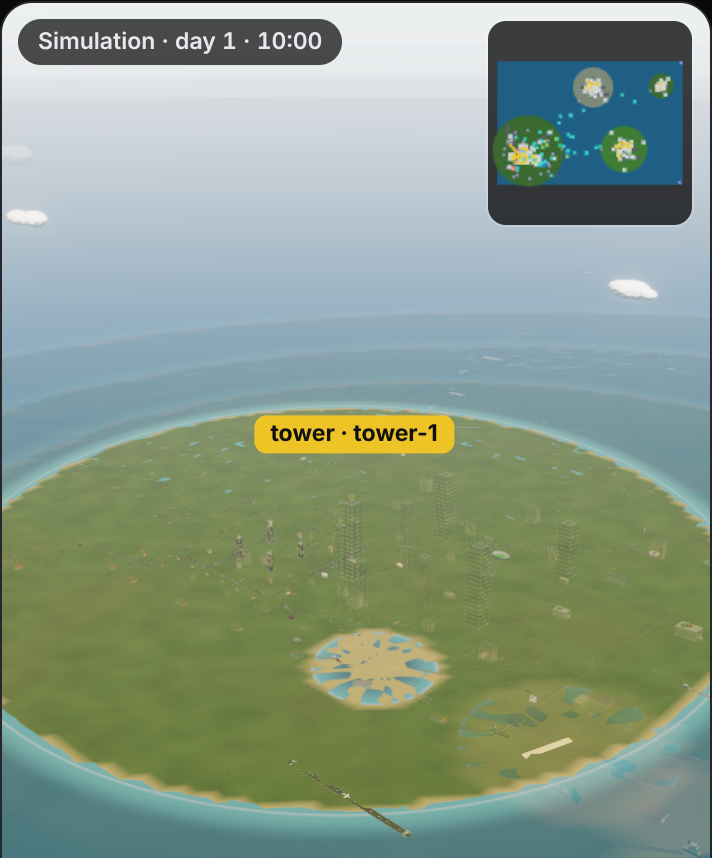
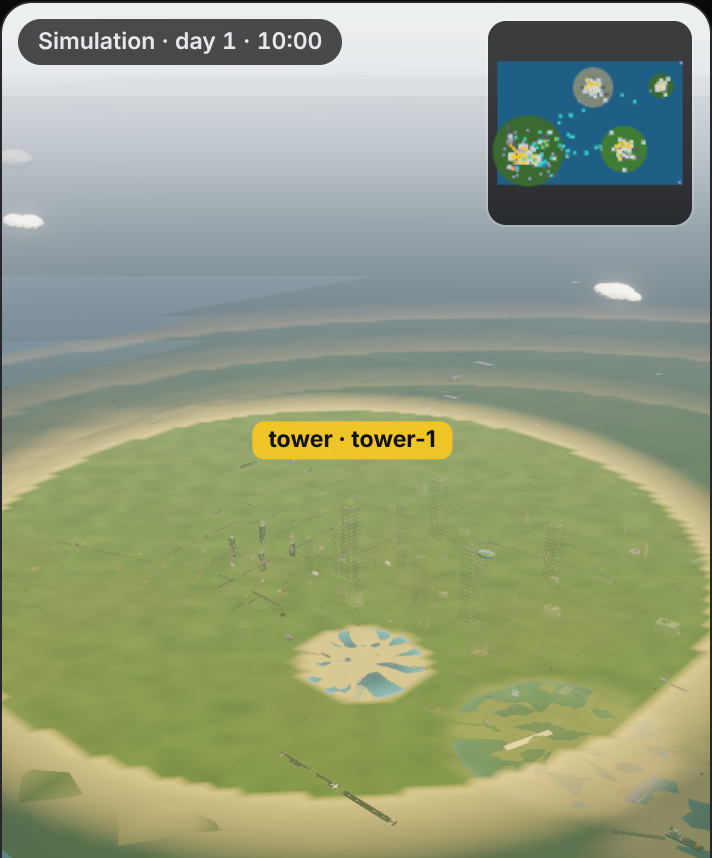
Sandbox viewer: generated CC0 PBR textures, terrain splatting, surface detail; sea depth fix
- scripts/make-sandbox-textures.mjs: five tileable PBR materials
  (albedo + normal/roughness), deterministic, CC0
- materials.js: terrain blends grass, sand, rock and snow by per-vertex
  weights; triplanar plaster detail on buildings and vehicles
- The sea is pushed back in depth so coasts never z-fight from afar
- The tier test copes with slow software rendering
- The plan marks what is in and what is left, with known issues

Claude-Session: https://claude.ai/code/session_018jFJG475oNjjyMRDJy1kw5

diff --git a/public/sandbox/materials.js b/public/sandbox/materials.js
@@ -1,0 +1,134 @@
+// PG1 Sandbox viewer: PBR detail from the CC0 textures in
+// /sandbox/textures/ (scripts/make-sandbox-textures.mjs), Medium tier and up.
+//
+//   loadTextures(THREE)                   the five materials' maps, or null
+//   applyTerrain(material, tex)           the ground: grass, sand, rock and
+//                                          snow blended by a per-vertex
+//                                          `splat` weight (environment.js),
+//                                          each with its own normal and
+//                                          roughness, over the climate
+//                                          colours already in the vertices
+//   addSurfaceDetail(material, tex)       buildings and vehicles: plaster
+//                                          detail projected on three axes
+//                                          (no texture coordinates needed)
+//
+// The textures change brightness, bumps and roughness around their own
+// average, so the colours of the world stay as they are. Detail fades with
+// distance, where it would only shimmer. Both hooks chain onto any
+// onBeforeCompile already set, so set up cascaded shadows first (their
+// setupMaterial replaces it).
+
+const NAMES = ['grass', 'sand', 'rock', 'snow', 'plaster'];
+
+export async function loadTextures(THREE, base = '/sandbox/textures/') {
+  const loader = new THREE.TextureLoader();
+  const load = (url, srgb) => new Promise((resolve, reject) => loader.load(url, (t) => {
+    t.wrapS = t.wrapT = THREE.RepeatWrapping;
+    t.anisotropy = 8;
+    t.colorSpace = srgb ? THREE.SRGBColorSpace : THREE.NoColorSpace;
+    t.generateMipmaps = true;
+    t.minFilter = THREE.LinearMipmapLinearFilter;
+    resolve(t);
+  }, undefined, reject));
+  try {
+    const out = {};
+    await Promise.all(NAMES.map(async (n) => { out[n] = { albedo: await load(`${base}${n}_albedo.png`, true), nr: await load(`${base}${n}_nr.png`, false) }; }));
+    return out;
+  } catch (e) { return null; }
+}
+
+function chain(material, fn, key) {
+  const prev = material.onBeforeCompile;
+  material.onBeforeCompile = (shader, renderer) => { if (prev) prev.call(material, shader, renderer); fn(shader); };
+  const prevKey = material.customProgramCacheKey ? material.customProgramCacheKey.bind(material) : () => '';
+  material.customProgramCacheKey = () => `${prevKey()}|${key}`;
+  material.needsUpdate = true;
+  return material;
+}
+
+const VARYINGS = `
+varying vec3 vPgWorld;
+varying vec3 vPgWorldNormal;`;
+
+function withWorld(shader, extraVert = '') {
+  shader.vertexShader = shader.vertexShader
+    .replace('#include <common>', `#include <common>${VARYINGS}${extraVert}`)
+    .replace('#include <worldpos_vertex>', `#include <worldpos_vertex>
+      vec4 pgWp = vec4(transformed, 1.0);
+      #ifdef USE_INSTANCING
+        pgWp = instanceMatrix * pgWp;
+      #endif
+      pgWp = modelMatrix * pgWp;
+      vPgWorld = pgWp.xyz;
+      vPgWorldNormal = normalize(mat3(modelMatrix) * objectNormal);`);
+}
+
+// The ground (a MeshStandardMaterial with vertex colours).
+export function applyTerrain(m, tex) {
+  if (!tex || !m || m.userData.pgTerrain) return m;
+  m.userData.pgTerrain = true;
+  const u = {
+    pgA0: { value: tex.grass.albedo }, pgN0: { value: tex.grass.nr },
+    pgA1: { value: tex.sand.albedo }, pgN1: { value: tex.sand.nr },
+    pgA2: { value: tex.rock.albedo }, pgN2: { value: tex.rock.nr },
+    pgA3: { value: tex.snow.albedo }, pgN3: { value: tex.snow.nr }
+  };
+  return chain(m, (shader) => {
+    Object.assign(shader.uniforms, u);
+    withWorld(shader, '\nattribute vec4 splat;\nvarying vec4 vPgSplat;');
+    shader.vertexShader = shader.vertexShader.replace('#include <worldpos_vertex>', '#include <worldpos_vertex>\n      vPgSplat = splat;');
+    shader.fragmentShader = shader.fragmentShader
+      .replace('#include <common>', `#include <common>${VARYINGS}
+varying vec4 vPgSplat;
+uniform sampler2D pgA0; uniform sampler2D pgN0; uniform sampler2D pgA1; uniform sampler2D pgN1;
+uniform sampler2D pgA2; uniform sampler2D pgN2; uniform sampler2D pgA3; uniform sampler2D pgN3;
+float pgLum(vec3 c) { return dot(c, vec3(0.299, 0.587, 0.114)); }
+// One layer: brightness around its own average (the smallest mip), the bumps, the roughness.
+void pgLayer(sampler2D a, sampler2D nr, vec2 uv, float w, inout float lum, inout vec2 bump, inout float rough) {
+  if (w <= 0.001) return;
+  float l = pgLum(texture2D(a, uv).rgb) / max(0.05, pgLum(textureLod(a, uv, 12.0).rgb));
+  vec3 t = texture2D(nr, uv).rgb;
+  lum += l * w; bump += (t.xy * 2.0 - 1.0) * w; rough += t.z * w;
+}`)
+      .replace('#include <map_fragment>', `#include <map_fragment>
+  vec4 pgW = vPgSplat / max(0.001, vPgSplat.x + vPgSplat.y + vPgSplat.z + vPgSplat.w);
+  float pgDist = distance(cameraPosition, vPgWorld);
+  float pgFade = 1.0 - smoothstep(250.0, 2600.0, pgDist);
+  float pgL = 0.0; vec2 pgBump = vec2(0.0); float pgRough = 0.0;
+  pgLayer(pgA0, pgN0, vPgWorld.xz / 4.0, pgW.x, pgL, pgBump, pgRough);
+  pgLayer(pgA1, pgN1, vPgWorld.xz / 6.0, pgW.y, pgL, pgBump, pgRough);
+  pgLayer(pgA2, pgN2, vPgWorld.xz / 11.0, pgW.z, pgL, pgBump, pgRough);
+  pgLayer(pgA3, pgN3, vPgWorld.xz / 8.0, pgW.w, pgL, pgBump, pgRough);
+  diffuseColor.rgb *= mix(1.0, pgL, 0.85 * pgFade);`)
+      .replace('#include <roughnessmap_fragment>', `float roughnessFactor = mix(0.95, pgRough, pgFade);`)
+      .replace('#include <normal_fragment_maps>', `#include <normal_fragment_maps>
+  normal = normalize(normal + (viewMatrix * vec4(pgBump.x, 0.0, pgBump.y, 0.0)).xyz * 0.9 * pgFade);`);
+  }, 'pg-terrain');
+}
+
+// Buildings and vehicles: plaster detail, projected along whichever axis faces most.
+export function addSurfaceDetail(material, tex, { strength = 0.5, scale = 2.5 } = {}) {
+  if (!tex || !material || material.userData.pgDetail) return material;
+  material.userData.pgDetail = true;
+  const u = { pgPa: { value: tex.plaster.albedo }, pgPn: { value: tex.plaster.nr } };
+  return chain(material, (shader) => {
+    Object.assign(shader.uniforms, u);
+    withWorld(shader);
+    shader.fragmentShader = shader.fragmentShader
+      .replace('#include <common>', `#include <common>${VARYINGS}
+uniform sampler2D pgPa; uniform sampler2D pgPn;`)
+      .replace('#include <map_fragment>', `#include <map_fragment>
+  vec3 pgB = pow(abs(normalize(vPgWorldNormal)), vec3(4.0)); pgB /= (pgB.x + pgB.y + pgB.z + 1e-4);
+  vec2 pgUx = vPgWorld.zy / ${scale.toFixed(2)}; vec2 pgUy = vPgWorld.xz / ${scale.toFixed(2)}; vec2 pgUz = vPgWorld.xy / ${scale.toFixed(2)};
+  float pgFade = 1.0 - smoothstep(60.0, 700.0, distance(cameraPosition, vPgWorld));
+  float pgMean = dot(textureLod(pgPa, vec2(0.5), 12.0).rgb, vec3(0.299, 0.587, 0.114));
+  float pgL = (dot(texture2D(pgPa, pgUx).rgb, vec3(0.299, 0.587, 0.114)) * pgB.x + dot(texture2D(pgPa, pgUy).rgb, vec3(0.299, 0.587, 0.114)) * pgB.y + dot(texture2D(pgPa, pgUz).rgb, vec3(0.299, 0.587, 0.114)) * pgB.z) / max(0.05, pgMean);
+  vec3 pgT = texture2D(pgPn, pgUx).rgb * pgB.x + texture2D(pgPn, pgUy).rgb * pgB.y + texture2D(pgPn, pgUz).rgb * pgB.z;
+  diffuseColor.rgb *= mix(1.0, pgL, ${strength.toFixed(2)} * pgFade);`)
+      .replace('#include <roughnessmap_fragment>', `#include <roughnessmap_fragment>
+  roughnessFactor = clamp(roughnessFactor * mix(1.0, 0.6 + pgT.z * 0.6, pgFade), 0.04, 1.0);`)
+      .replace('#include <normal_fragment_maps>', `#include <normal_fragment_maps>
+  vec2 pgD = (pgT.xy * 2.0 - 1.0) * 0.35 * pgFade;
+  normal = normalize(normal + (viewMatrix * vec4(pgD.x * (pgB.y + pgB.z), pgD.y * (pgB.x + pgB.z), pgD.x * pgB.x + pgD.y * pgB.y, 0.0)).xyz);`);
+  }, `pg-detail-${strength}-${scale}`);
+}

diff --git a/public/sandbox/environment.js b/public/sandbox/environment.js
@@ -15,6 +15,7 @@
 
 import { Kit } from './kit.js';
 import { createWaterMaterial } from './water.js';
+import { applyTerrain } from './materials.js';
 
 const SKY_VERT = `
 varying vec3 vDir;
@@ -221,6 +222,15 @@ export function createEnvironment(THREE, scene, { coarse = false, quality = null
       return y;
     };
     env.heightAt = heightAt;
+    // Splat weights for the textured ground: grass, sand, rock, snow.
+    const splatOf = (x, z, y, edge, cl, snowAmt) => {
+      let ws = 0; let wr = smooth(500, 750, y); let wn = Math.max(smooth(800, 950, y), snowAmt);
+      if (edge !== null && edge < 45) { if (cl === 'cold') { wr = Math.max(wr, 0.6); ws = 0.4; } else ws = 1; wn = 0; }
+      for (const l of lakes) { const d = Math.hypot(x - l.sx, z - l.sz) - l.radius; if (d < 25) ws = Math.max(ws, smooth(25, 2, d)); }
+      ws = Math.min(1, ws); wr = Math.min(1 - ws, wr); wn = Math.min(1 - ws - wr, wn);
+      return [Math.max(0, 1 - ws - wr - wn), ws, wr, wn];
+    };
+    const splats = [];
     const ringR = (i) => (i === 0 ? 0 : half * 0.02 * Math.pow(R / (half * 0.02), i / rings));
     for (let i = 0; i <= rings; i++) {
       const rr = ringR(i);
@@ -239,11 +249,13 @@ export function createEnvironment(THREE, scene, { coarse = false, quality = null
         if (y > 800) c.lerp(snow, smooth(800, 950, y));
         const seaMix = islands.length ? 0 : smooth(span * 2.2, span * 3.4, out);
         if (seaMix > 0) c.lerp(sea, seaMix);
+        let sEdge = null; let sCl = 'temperate'; let sSnow = 0;
         if (islands.length) {
           const { edge, isl } = landEdge(x, z);
           const cl = isl ? isl.climate : 'temperate';
+          sEdge = edge; sCl = cl;
           if (cl === 'tropical') c.lerp(tropical, 0.55);
-          if (cl === 'cold') { c.lerp(coldGrass, 0.6); if (noise(x / 90, z / 90, 2) > 0.15) c.lerp(snow, 0.7); }
+          if (cl === 'cold') { c.lerp(coldGrass, 0.6); if (noise(x / 90, z / 90, 2) > 0.15) { c.lerp(snow, 0.7); sSnow = 0.7; } }
           if (cl === 'maritime') c.lerp(maritime, 0.5);
           if (edge < 45) c.copy(sand).lerp(cl === 'cold' ? pebbles : sand, 0.6);
           if (edge < -2) c.copy(seabed).lerp(deep, Math.min(1, -edge / 400));
@@ -254,6 +266,7 @@ export function createEnvironment(THREE, scene, { coarse = false, quality = null
           if (d < 25) c.lerp(sand, smooth(25, 2, d));
         }
         colr.push(c.r, c.g, c.b);
+        splats.push(...splatOf(x, z, y, sEdge, sCl, sSnow));
       }
     }
     for (let j = 0; j < segs; j++) idx.push(0, 1 + ((j + 1) % segs), 1 + j);
@@ -268,9 +281,13 @@ export function createEnvironment(THREE, scene, { coarse = false, quality = null
     g.setAttribute('position', new THREE.Float32BufferAttribute(pos, 3));
     g.setAttribute('color', new THREE.Float32BufferAttribute(colr, 3));
     g.setAttribute('uv', new THREE.Float32BufferAttribute(uvs, 2));
+    g.setAttribute('splat', new THREE.Float32BufferAttribute(splats, 4));
     g.setIndex(idx);
     g.computeVertexNormals();
-    const groundMat = env.setupMaterial(env.makeGroundMaterial ? env.makeGroundMaterial(detail) : new THREE.MeshStandardMaterial({ vertexColors: true, map: detail, roughness: 0.95, metalness: 0 }));
+    // With the PBR textures (Medium and up) the ground blends grass, sand,
+    // rock and snow by the splat weights below; without them, the old detail tile.
+    const groundMat = env.setupMaterial(new THREE.MeshStandardMaterial(env.textures ? { vertexColors: true, roughness: 1, metalness: 0 } : { vertexColors: true, map: detail, roughness: 0.95, metalness: 0 }));
+    if (env.textures) applyTerrain(groundMat, env.textures);
     const ground = new THREE.Mesh(g, groundMat);
     ground.receiveShadow = true;
     ground.position.y = isl0 ? -3 : -0.05;
@@ -283,7 +300,7 @@ export function createEnvironment(THREE, scene, { coarse = false, quality = null
       const nx = Math.min(coarse ? 220 : 380, Math.ceil((W + 2 * M) / 40)); const nz = Math.min(coarse ? 150 : 260, Math.ceil((D + 2 * M) / 40));
       const pg = new THREE.PlaneGeometry(W + 2 * M, D + 2 * M, nx, nz);
       pg.rotateX(-Math.PI / 2);
-      const pp = pg.attributes.position; const cols = new Float32Array(pp.count * 3); const uv2 = pg.attributes.uv;
+      const pp = pg.attributes.position; const cols = new Float32Array(pp.count * 3); const uv2 = pg.attributes.uv; const spl = new Float32Array(pp.count * 4);
       const tmpC = new THREE.Color();
       for (let i = 0; i < pp.count; i++) {
         const x = pp.getX(i); const z = pp.getZ(i);
@@ -294,14 +311,17 @@ export function createEnvironment(THREE, scene, { coarse = false, quality = null
         tmpC.copy(grassA).lerp(grassB, Math.min(1, Math.max(0, v + 0.5))).lerp(dry, Math.max(0, noise(x / 700, z / 700, 2)) * 0.6);
         const cl = isl ? isl.climate : 'temperate';
         if (cl === 'tropical') tmpC.lerp(tropical, 0.55);
-        if (cl === 'cold') { tmpC.lerp(coldGrass, 0.6); const n2 = noise(x / 140, z / 140, 3); if (n2 > 0.08) tmpC.lerp(snow, Math.min(0.85, (n2 - 0.08) * 5)); }
+        let sSnow = 0;
+        if (cl === 'cold') { tmpC.lerp(coldGrass, 0.6); const n2 = noise(x / 140, z / 140, 3); if (n2 > 0.08) { sSnow = Math.min(0.85, (n2 - 0.08) * 5); tmpC.lerp(snow, sSnow); } }
         if (cl === 'maritime') tmpC.lerp(maritime, 0.5);
         if (edge < 45) tmpC.copy(sand).lerp(cl === 'cold' ? pebbles : sand, 0.6);
         if (edge < -2) tmpC.copy(seabed).lerp(deep, Math.min(1, -edge / 400));
         for (const l of lakes) { const d = Math.hypot(x - l.sx, z - l.sz) - l.radius; if (d < 25) tmpC.lerp(sand, smooth(25, 2, d)); }
         cols[i * 3] = tmpC.r; cols[i * 3 + 1] = tmpC.g; cols[i * 3 + 2] = tmpC.b;
+        spl.set(splatOf(x, z, pp.getY(i), edge, cl, sSnow), i * 4);
       }
       pg.setAttribute('color', new THREE.BufferAttribute(cols, 3));
+      pg.setAttribute('splat', new THREE.BufferAttribute(spl, 4));
       pg.computeVertexNormals();
       const fine = new THREE.Mesh(pg, groundMat);
       fine.receiveShadow = true;
@@ -319,7 +339,7 @@ export function createEnvironment(THREE, scene, { coarse = false, quality = null
         seaMesh = new THREE.Mesh(sg, createWaterMaterial(THREE, env.normals || (env.normals = waterNormals(THREE)), islands));
         seaMesh.userData.water = true;
       } else {
-        seaMesh = new THREE.Mesh(sg, env.setupMaterial(new THREE.MeshStandardMaterial({ color: 0x1f6f9a, roughness: 0.12, metalness: 0.3, transparent: true, opacity: 0.88 })));
+        seaMesh = new THREE.Mesh(sg, env.setupMaterial(new THREE.MeshStandardMaterial({ color: 0x1f6f9a, roughness: 0.12, metalness: 0.3, transparent: true, opacity: 0.88, polygonOffset: true, polygonOffsetFactor: 4, polygonOffsetUnits: 8 })));
         seaMesh.receiveShadow = true;
       }
       seaMesh.position.y = 0;
@@ -333,7 +353,7 @@ export function createEnvironment(THREE, scene, { coarse = false, quality = null
       const lg = new THREE.CircleGeometry(l.radius, coarse ? 48 : 96, 0, Math.PI * 2);
       lg.rotateX(-Math.PI / 2);
       const water = qual.water
-        ? new THREE.Mesh(lg, createWaterMaterial(THREE, env.normals || (env.normals = waterNormals(THREE)), [{ sx: l.sx, sz: l.sz, r: -l.radius }]))
+        ? new THREE.Mesh(lg, createWaterMaterial(THREE, env.normals || (env.normals = waterNormals(THREE)), [{ sx: l.sx, sz: l.sz, r: -l.radius }], { offset: false }))
         : new THREE.Mesh(lg, env.setupMaterial(new THREE.MeshStandardMaterial({ color: 0x2f7fb0, roughness: 0.08, metalness: 0.35, transparent: true, opacity: 0.92 })));
       water.position.set(l.sx, 0.12, l.sz);
       water.receiveShadow = true;

diff --git a/public/sandbox/sandbox-scene.js b/public/sandbox/sandbox-scene.js
@@ -35,6 +35,7 @@ import { createEnvironment } from './environment.js';
 import { createControls } from './controls.js';
 import { TIERS, TIER_SETTINGS, QUALITY_KEY, pickTier, createGovernor } from './quality.js';
 import { createPost } from './post.js';
+import { loadTextures, addSurfaceDetail } from './materials.js';
 
 const MAX_ENTITIES = 1000;
 const CLASS_COLOR = { person: 0xf3c623, animal: 0xff9b7a, plant: 0x3ddc84, building: 0xcfd8dc, structure: 0x9e9e9e, vehicle: 0x36d1c4, space: 0x8f86ff, celestial: 0xd98cff, thing: 0x7cc4ff };
@@ -216,9 +217,10 @@ async function create3d(container, { coarse, threeUrl, onSelect, tier = 'high', 
   const THREE = await import(threeUrl);
   const settings = TIER_SETTINGS[tier] || TIER_SETTINGS.high;
   const ADD = '/vendor/three/addons/';
-  const [skyMod, csmMod] = await Promise.all([
+  const [skyMod, csmMod, textures] = await Promise.all([
     settings.sky === 'physical' ? import(`${ADD}objects/Sky.js`).catch(() => null) : null,
-    settings.cascades > 0 ? import(`${ADD}csm/CSM.js`).catch(() => null) : null
+    settings.cascades > 0 ? import(`${ADD}csm/CSM.js`).catch(() => null) : null,
+    settings.textures ? loadTextures(THREE) : null
   ]);
   const canvas = document.createElement('canvas');
   canvas.className = 'living-lab-canvas sandbox-canvas';
@@ -240,6 +242,7 @@ async function create3d(container, { coarse, threeUrl, onSelect, tier = 'high', 
   const scene = new THREE.Scene();
   const camera = new THREE.PerspectiveCamera(55, 1, 0.3, 200000);
   const env = createEnvironment(THREE, scene, { coarse, quality: settings, camera, addons: { Sky: skyMod && skyMod.Sky, CSM: csmMod && csmMod.CSM } });
+  env.textures = textures;
   const glow = glowTexture(THREE);
 
   const matBody = new THREE.MeshStandardMaterial({ vertexColors: true, roughness: 0.72, metalness: 0.06 });
@@ -251,6 +254,8 @@ async function create3d(container, { coarse, threeUrl, onSelect, tier = 'high', 
   const matBuildGlass = new THREE.MeshStandardMaterial({ vertexColors: true, roughness: 0.12, metalness: 0.75 });
   const matBuildGlow = new THREE.MeshBasicMaterial({ vertexColors: true, toneMapped: false });
   for (const m of [matBody, matGlass, matBuild, matBuildGlass]) env.setupMaterial(m);
+  // PBR surface detail (after the shadow setup, which replaces the compile hook).
+  if (textures) { addSurfaceDetail(matBody, textures); addSurfaceDetail(matBuild, textures, { strength: 0.6, scale: 3 }); }
   const furnitureGroup = new THREE.Group();
   furnitureGroup.visible = false;
   let xray = false;

diff --git a/public/sandbox/water.js b/public/sandbox/water.js
@@ -72,7 +72,8 @@ void main() {
 }`;
 
 // islands: [{ sx, sz, r }] in scene coordinates; a lake is one circle with r < 0.
-export function createWaterMaterial(THREE, normals, islands = []) {
+// offset: push it back in depth (the sea, so land just above it always wins); not for lakes, which lie on land.
+export function createWaterMaterial(THREE, normals, islands = [], { offset = true } = {}) {
   const flat = new Float32Array(MAX_ISLANDS * 3);
   islands.slice(0, MAX_ISLANDS).forEach((i, k) => { flat[k * 3] = i.sx; flat[k * 3 + 1] = i.sz; flat[k * 3 + 2] = i.r; });
   const uniforms = THREE.UniformsUtils.merge([THREE.UniformsLib.fog, {
@@ -83,7 +84,8 @@ export function createWaterMaterial(THREE, normals, islands = []) {
     uIslands: { value: Array.from(flat) }, uIslandCount: { value: Math.min(MAX_ISLANDS, islands.length) }, uFoam: { value: 1 }
   }]);
   uniforms.uNormals.value = normals;
-  const m = new THREE.ShaderMaterial({ vertexShader: VERT, fragmentShader: FRAG, uniforms, transparent: true, fog: true, depthWrite: true });
+  // Pushed back in depth a little, so land just above sea level always wins, even from far away.
+  const m = new THREE.ShaderMaterial({ vertexShader: VERT, fragmentShader: FRAG, uniforms, transparent: true, fog: true, depthWrite: true, polygonOffset: offset, polygonOffsetFactor: offset ? 4 : 0, polygonOffsetUnits: offset ? 8 : 0 });
   m.userData.water = true;
   return m;
 }

diff --git a/docs/sandbox-viewer-plan.md b/docs/sandbox-viewer-plan.md
@@ -1,6 +1,6 @@
 # Sandbox viewer: the high-quality spec, what is in and what is left
 
-The PR F prompt asked for a high-quality 3D viewer. The Sandbox PR ships a working viewer. **This follow-up pull request tracks everything else. Nothing below marked "left" is done.**
+The PR F prompt asked for a high-quality 3D viewer. The Sandbox PR shipped a working viewer, and this pull request adds to it. **Each item is ticked only when it is in this pull request and tested; nothing unticked is done.**
 
 ## In the Sandbox PR already
 
@@ -27,19 +27,23 @@ The PR F prompt asked for a high-quality 3D viewer. The Sandbox PR ships a worki
 - [ ] **Materials** (friction, restitution, density per catalogue class), **joints** (hinges for doors and bridges, fixed joints for structures) and **collapse** (a structure whose supports are removed falls, deterministically).
 
 ### Rendering
-- [ ] **PBR materials:**
+- [x] **PBR materials** (in this PR):
+  - generated textures, not photo-scanned: the scanned CC0 sources (ambientCG, Poly Haven) are blocked by this environment's network policy;
+  - `scripts/make-sandbox-textures.mjs` writes five tileable materials (grass, sand, rock, snow, plaster), each an albedo map plus normal and roughness packed in one image, 956 KB in all, the same bytes every run, released CC0 (`public/sandbox/textures/LICENSE.txt`);
+  - terrain splatting by per-vertex weights, and triplanar plaster detail on buildings and vehicles (`public/sandbox/materials.js`), Medium tier and up.
+- [ ] Photo-scanned CC0 sets, once the hosts are allowed. Originally planned:
   - with CC0 textures checked into the repository (source and licence recorded for each, e.g. ambientCG or Poly Haven);
   - albedo, normal and roughness/metalness packed;
   - KTX2 or WebP within the first-frame budget.
-- [ ] **A physically based sky** (Preetham or Hillaire) with the sun from the time of day.
-- [ ] **Cascaded soft shadows** (three cascades at High, two at Medium, none at Low).
-- [ ] **A water shader:** waves, Fresnel reflection, depth colour, foam at the shore.
-- [ ] **Textured terrain:** splatting by height and slope with the CC0 set.
-- [ ] **Post-processing:**
+- [x] **A physically based sky** (Preetham, three's Sky) with the sun from the time of day, fading into space (High and Medium).
+- [x] **Cascaded soft shadows** (three's CSM): 2 cascades at Medium, 3 at High, 4 at Ultra, none at Low.
+- [x] **A water shader** (`public/sandbox/water.js`, High and Ultra): waves from two scrolling normal layers, Fresnel reflection of the sky colours, sun glitter, shallows and foam at the coast. No mirror pass: three's Water drew the whole scene twice a frame and left a reflection artefact.
+- [x] **Textured terrain:** grass, sand, rock and snow blended by height, shore and climate (generated set).
+- [x] **Post-processing** (`public/sandbox/post.js`): GTAO ambient occlusion (High and up), subtle bloom (Medium and up), SMAA, and temporal accumulation while still (Ultra). Originally planned:
   - SMAA (and TAA at Ultra);
   - SSAO (High and above);
   - subtle bloom (sun, lamps, glows at night).
-- [ ] **Adaptive quality tiers:**
+- [x] **Adaptive quality tiers** (`public/sandbox/quality.js`), with a Quality menu in the viewer kept per device; a change rebuilds the view in place. Originally planned:
   - **Ultra / High / Medium / Low**, picked from the device and lowered automatically when frame time stays over budget;
   - a manual override in the viewer.
 - [ ] **Performance targets:**
@@ -56,6 +60,13 @@ The PR F prompt asked for a high-quality 3D viewer. The Sandbox PR ships a worki
   - from the world's seed and its recorded steps, at any speed;
   - with a cinematic camera (spline paths between points of interest).
 - [ ] **Photo mode:** hide the interface, free camera, depth of field, save a PNG.
+
+## Known issues
+
+- From very far away, a lake can show partly as sand (depth precision at distance). The sea is fixed (a depth offset); lakes sit on land, so the same fix does not apply.
+- The textures are procedural, not scanned.
+- Without logarithmic depth, the near plane follows the camera's distance (2% of it), so things closer than that to the camera are clipped.
+- **Not measured yet:** the Pixel 9a frame rate and first-frame size. The browser tests run on software rendering, which says nothing about a real phone.
 
 ## How this pull request will be checked
 
